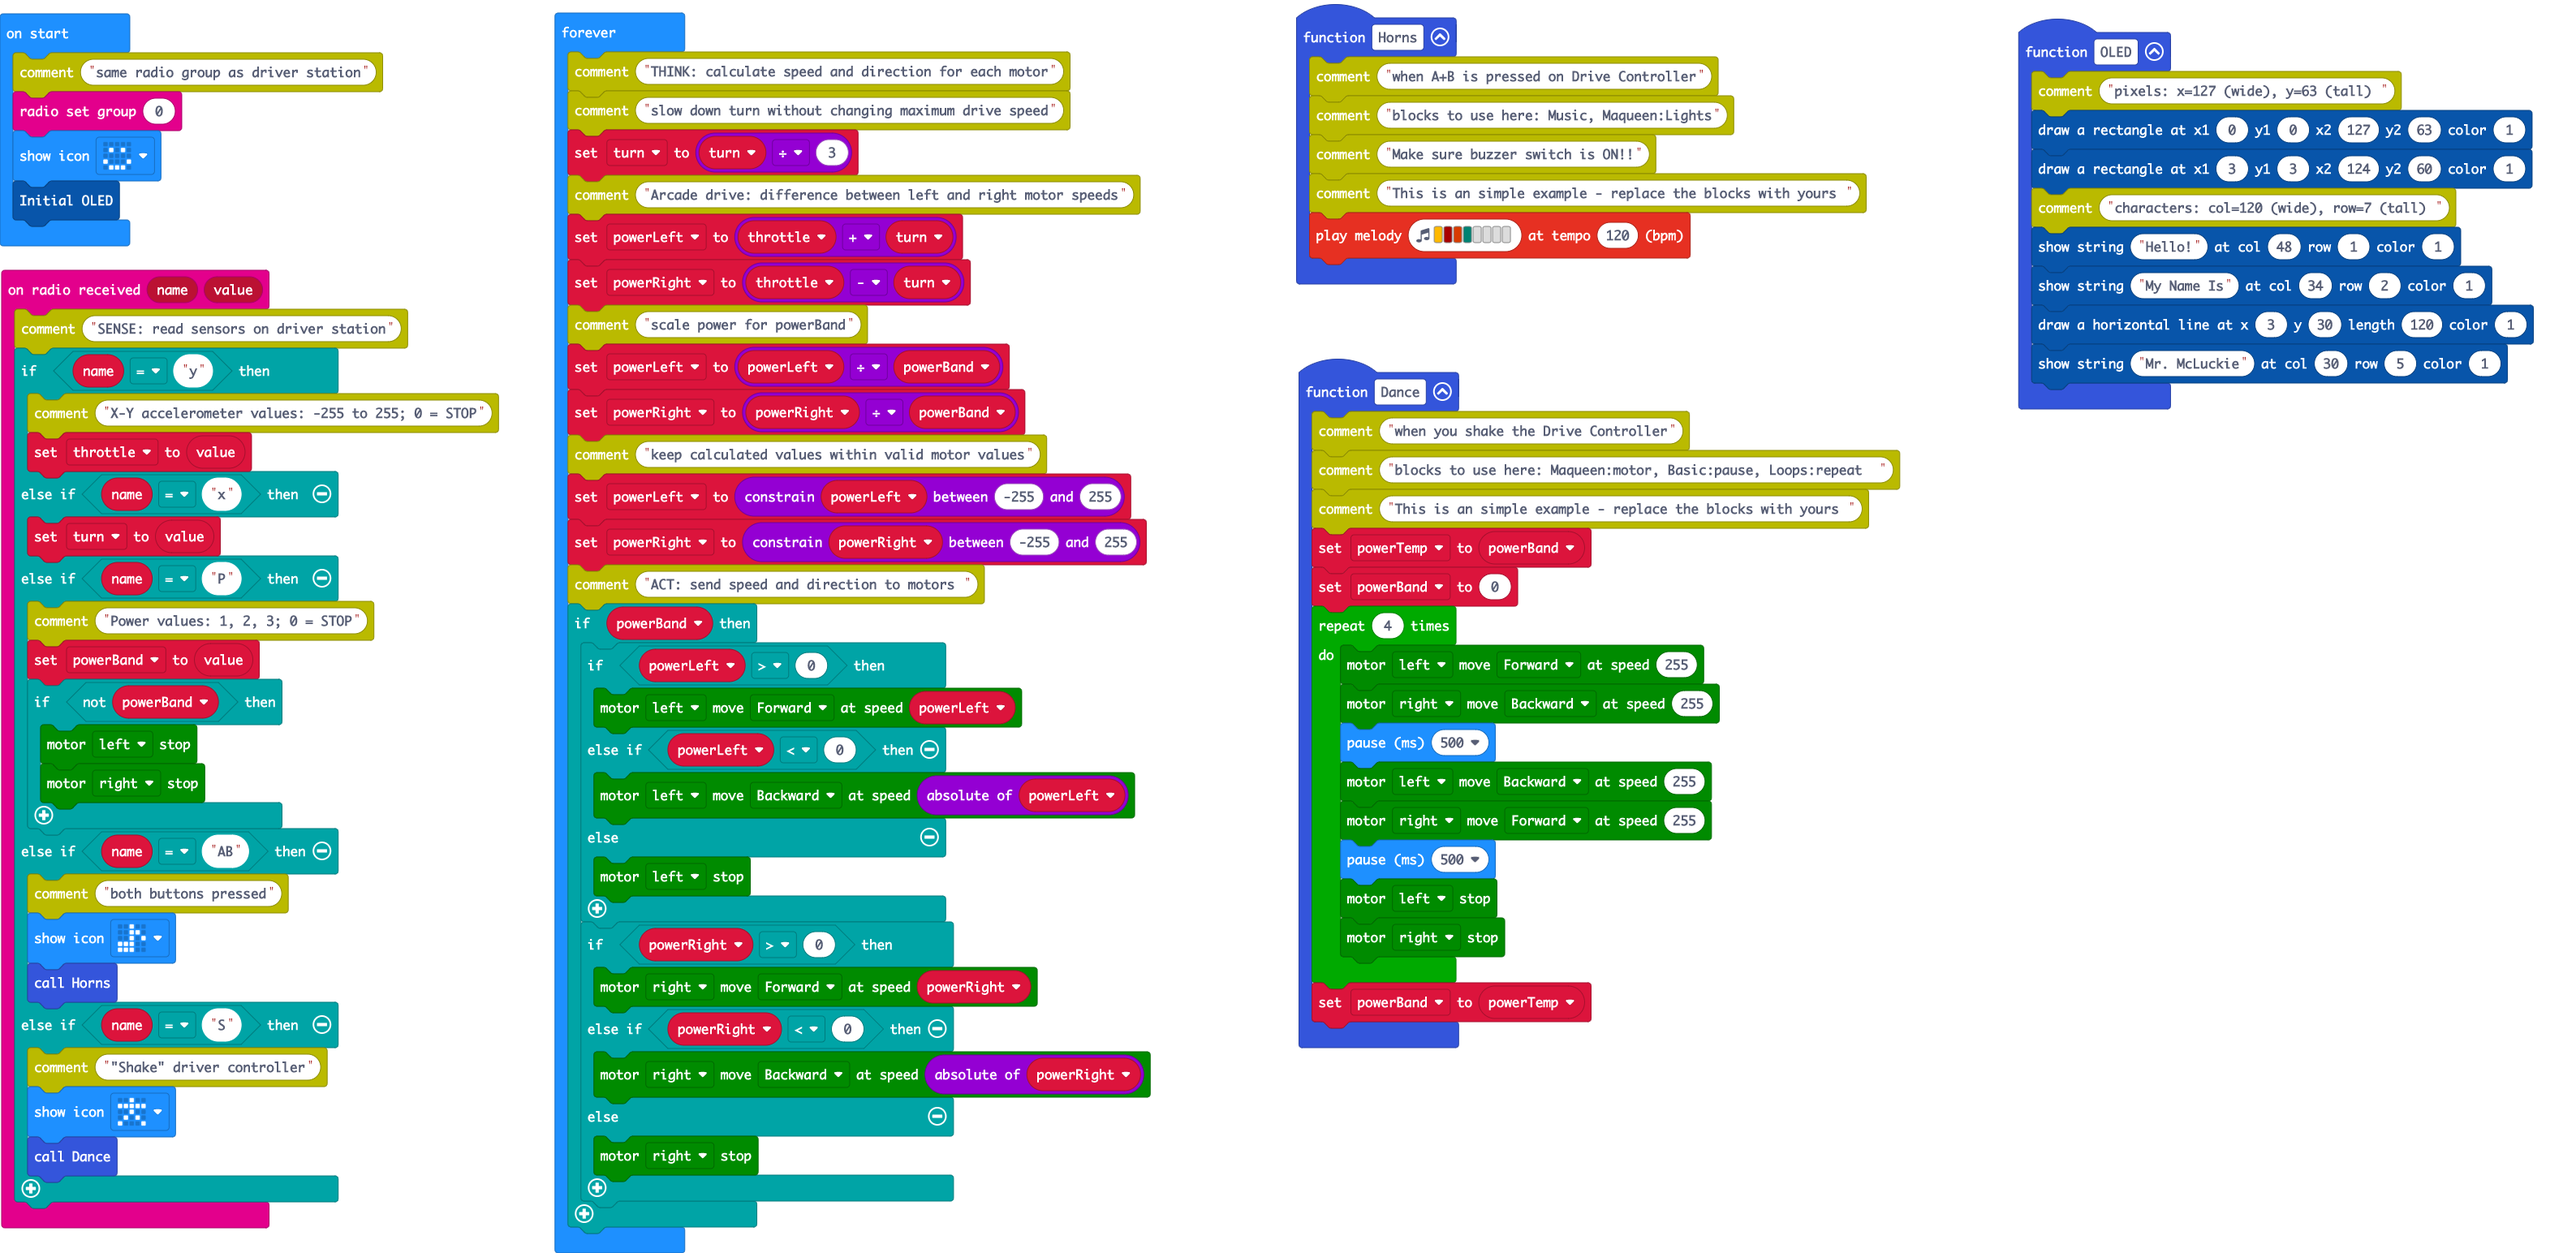
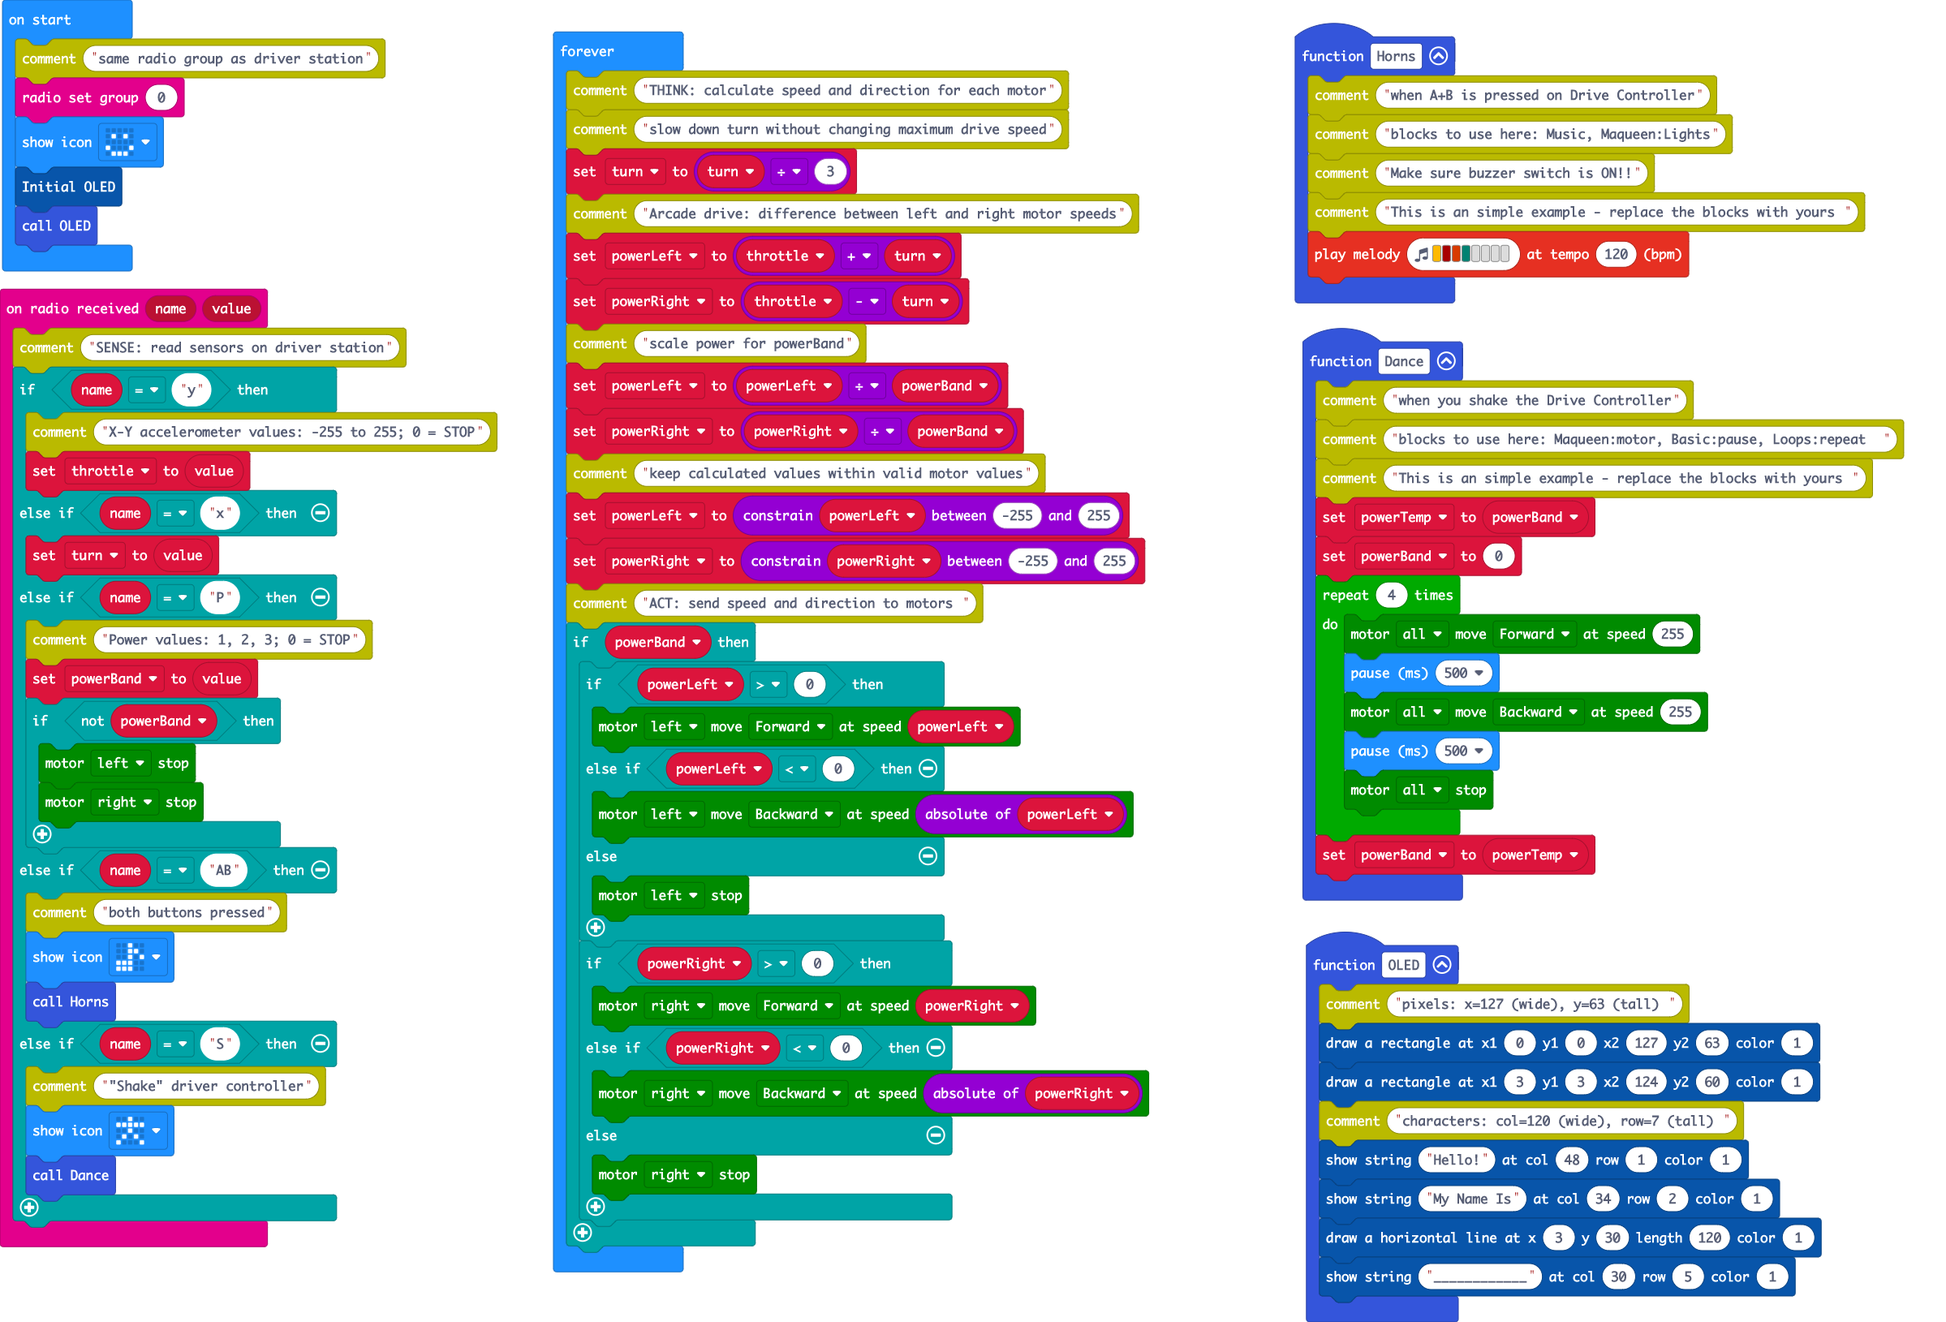
Update main.blocks, main.ts

diff --git a/main.ts b/main.ts
@@ -5,14 +5,11 @@ function Dance () {
     powerTemp = powerBand
     powerBand = 0
     for (let index = 0; index < 4; index++) {
-        maqueen.motorRun(maqueen.Motors.M1, maqueen.Dir.CW, 255)
-        maqueen.motorRun(maqueen.Motors.M2, maqueen.Dir.CCW, 255)
+        maqueen.motorRun(maqueen.Motors.All, maqueen.Dir.CW, 255)
         basic.pause(500)
-        maqueen.motorRun(maqueen.Motors.M1, maqueen.Dir.CCW, 255)
-        maqueen.motorRun(maqueen.Motors.M2, maqueen.Dir.CW, 255)
+        maqueen.motorRun(maqueen.Motors.All, maqueen.Dir.CCW, 255)
         basic.pause(500)
-        maqueen.motorStop(maqueen.Motors.M1)
-        maqueen.motorStop(maqueen.Motors.M2)
+        maqueen.motorStop(maqueen.Motors.All)
     }
     powerBand = powerTemp
 }
@@ -55,7 +52,7 @@ function OLED () {
     OLED12864_I2C.String("Hello!", 48, 1, 1)
     OLED12864_I2C.String("My Name Is", 34, 2, 1)
     OLED12864_I2C.hline(3, 30, 120, 1)
-    OLED12864_I2C.String("Mr. McLuckie", 30, 5, 1)
+    OLED12864_I2C.String("____________", 30, 5, 1)
 }
 let powerRight = 0
 let powerLeft = 0
@@ -67,6 +64,7 @@ comment.comment("same radio group as driver station")
 radio.setGroup(0)
 basic.showIcon(IconNames.Happy)
 OLED12864_I2C.init()
+OLED()
 basic.forever(function () {
     comment.comment("THINK: calculate speed and direction for each motor")
     comment.comment("slow down turn without changing maximum drive speed")
